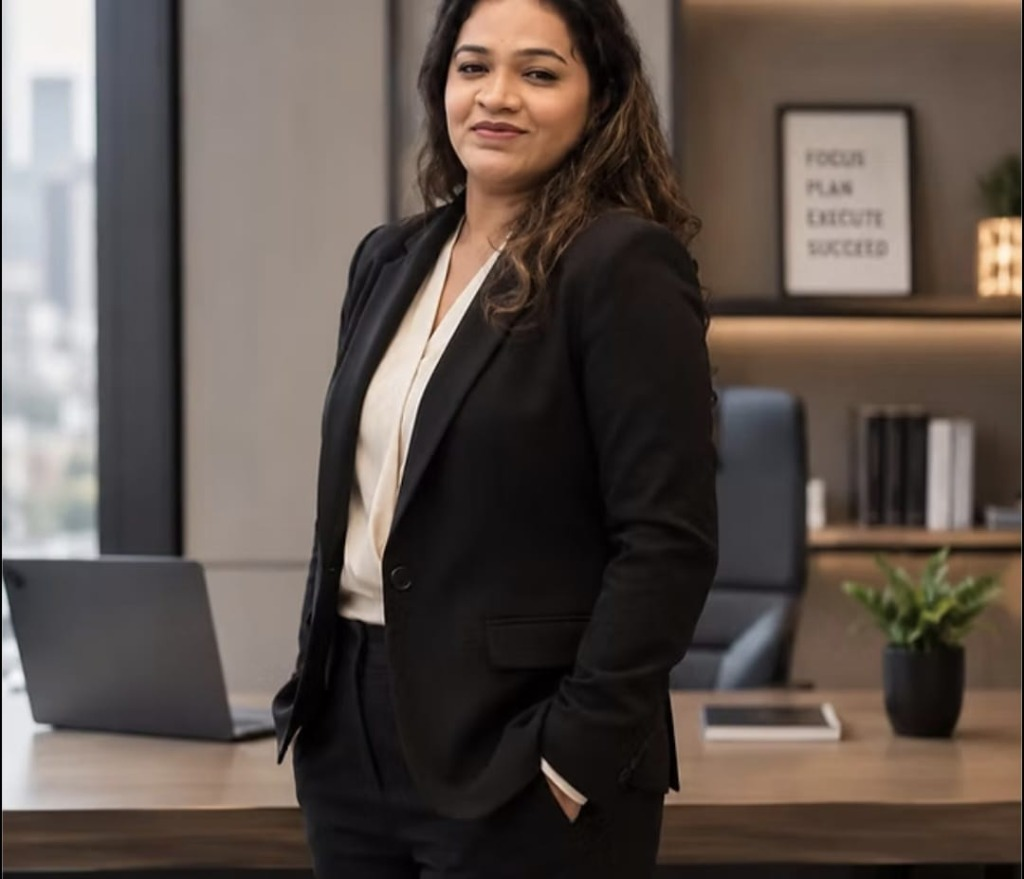
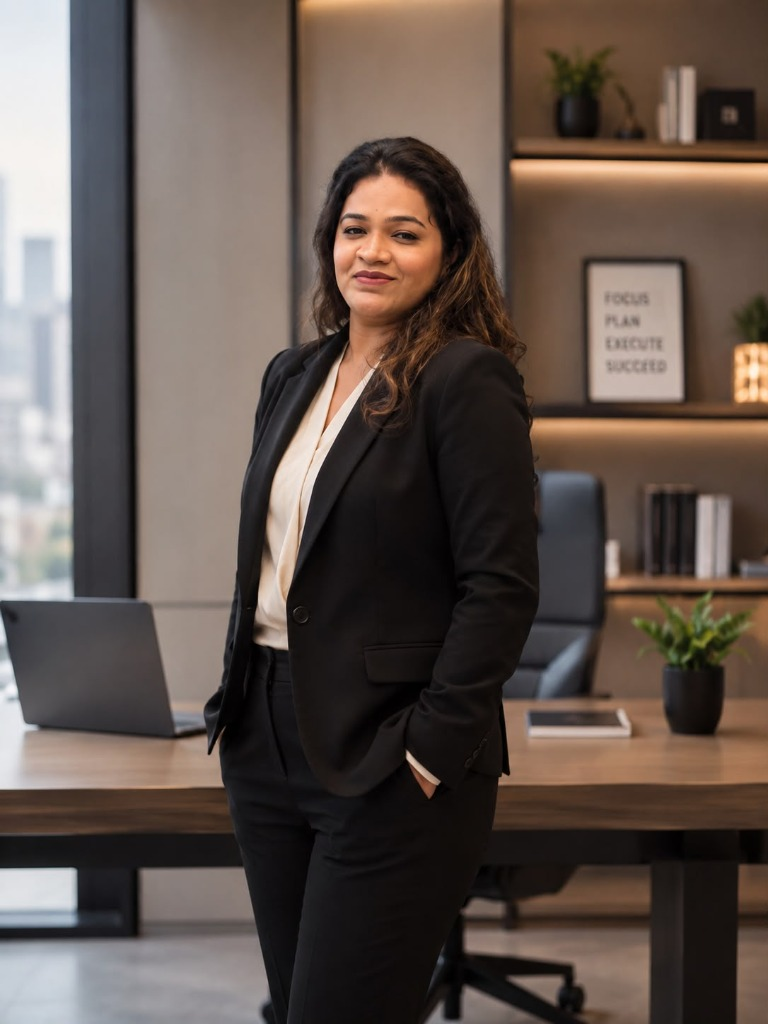
UI Refinements: Update Navbar to black, simplify Home layout, update Founder sections, add Shop category tabs

diff --git a/src/pages/Home.jsx b/src/pages/Home.jsx
@@ -152,10 +152,10 @@ const Home = () => {
         </div>
       </section>
 
-      {/* 2. FEATURED CATEGORIES */}
+      {/* 2. OUR COLLECTION */}
       <section className="py-24 px-6 bg-white border-b border-gold/15">
         <div className="container mx-auto max-w-6xl">
-          <h2 className="text-center text-3xl md:text-5xl font-heading text-maroon mb-16 tracking-widest">Featured Collections</h2>
+          <h2 className="text-center text-3xl md:text-5xl font-heading text-maroon mb-16 tracking-widest">Our Collection</h2>
           <div className="grid grid-cols-2 md:grid-cols-6 gap-8">
             {categories.map((cat, idx) => (
               <Link to={cat.path} key={idx} className="group flex flex-col items-center space-y-4">
@@ -171,85 +171,7 @@ const Home = () => {
         </div>
       </section>
 
-      {/* 3. INTRODUCING OUR FINEST CREATION */}
-      <section className="py-24 px-6 container mx-auto text-center max-w-3xl space-y-6">
-        <h2 className="text-xs tracking-[0.35em] text-gold uppercase font-semibold">Introducing Our Finest Creation</h2>
-        <h3 className="text-4xl md:text-6xl font-heading text-maroon tracking-wider">PAITHANI COLLECTION</h3>
-        <div className="w-24 h-0.5 bg-gold mx-auto my-4"></div>
-        <p className="text-gray-700 leading-relaxed font-light text-base md:text-lg">
-          Discover exquisite Paithani sarees inspired by centuries of Maharashtrian heritage.
-          Handcrafted with intricate artistry, luxurious fabrics, and timeless elegance, every drape is designed to become a treasured heirloom for generations.
-        </p>
-        <p className="text-gold/80 italic text-xs tracking-widest uppercase">
-          "Crafted over months by skilled artisans."
-        </p>
-      </section>
-
-      {/* 4. PAITHANI COLLECTION GRID */}
-      <section className="py-20 px-6 bg-white border-y border-gold/15">
-        <div className="container mx-auto max-w-6xl">
-          <div className="grid grid-cols-1 md:grid-cols-3 gap-8">
-            {productsData.slice(0, 3).map(p => (
-              <div key={p.id} className="group bg-cream/10 rounded-2xl overflow-hidden shadow-premium border border-gold/15 hover:shadow-2xl transition duration-500 relative flex flex-col justify-between">
-                <div className="relative overflow-hidden aspect-[3/4]">
-                  <img src={p.image} alt={p.name} className="w-full h-full object-cover transition-transform duration-750 group-hover:scale-105" />
-                  <div className="absolute top-4 left-4 bg-maroon text-gold text-[10px] font-bold px-3 py-1 rounded-full uppercase tracking-widest border border-gold/30">
-                    Handwoven
-                  </div>
-                </div>
-                <div className="p-6 space-y-4">
-                  <h4 className="font-heading text-2xl text-maroon">{p.name}</h4>
-                  <p className="text-xs text-gray-500 font-light truncate">{p.description}</p>
-                  <div className="flex justify-between items-center pt-2">
-                    <span className="font-bold text-lg text-maroon">₹{p.price.toLocaleString('en-IN')}</span>
-                    <Link to={`/product/${p.id}`} className="text-xs text-gold font-bold border-b border-gold hover:text-maroon pb-1 transition uppercase tracking-widest">
-                      View Saree
-                    </Link>
-                  </div>
-                </div>
-              </div>
-            ))}
-          </div>
-        </div>
-      </section>
-
-      {/* 5. BEST SELLERS */}
-      <section className="py-24 px-6">
-        <div className="container mx-auto max-w-6xl">
-          <h2 className="text-center text-3xl md:text-4xl font-heading text-maroon mb-16 tracking-widest">Our Best Sellers</h2>
-          <div className="grid grid-cols-2 md:grid-cols-4 gap-6">
-            {bestSellers.map(p => (
-              <div key={p.id} className="bg-white rounded-xl overflow-hidden shadow-premium border border-gold/10 p-4 space-y-3">
-                <img src={p.image} alt={p.name} className="w-full aspect-[3/4] object-cover rounded-lg" />
-                <h4 className="font-heading text-maroon font-semibold truncate text-sm">{p.name}</h4>
-                <div className="flex justify-between items-center text-xs">
-                  <span className="font-bold">₹{p.price.toLocaleString('en-IN')}</span>
-                  <Link to={`/product/${p.id}`} className="text-gold hover:underline font-bold uppercase tracking-wider text-[10px]">Buy Now</Link>
-                </div>
-              </div>
-            ))}
-          </div>
-        </div>
-      </section>
-
-      {/* 6. NEW ARRIVALS */}
-      <section className="py-24 px-6 bg-white border-y border-gold/15">
-        <div className="container mx-auto max-w-6xl">
-          <h2 className="text-center text-3xl md:text-4xl font-heading text-maroon mb-16 tracking-widest">New Arrivals</h2>
-          <div className="grid grid-cols-2 md:grid-cols-4 gap-6">
-            {newArrivals.map(p => (
-              <div key={p.id} className="bg-cream/20 rounded-xl overflow-hidden border border-gold/10 p-4 space-y-3">
-                <img src={p.image} alt={p.name} className="w-full aspect-[3/4] object-cover rounded-lg" />
-                <h4 className="font-heading text-maroon font-semibold truncate text-sm">{p.name}</h4>
-                <div className="flex justify-between items-center text-xs">
-                  <span className="font-bold">₹{p.price.toLocaleString('en-IN')}</span>
-                  <Link to={`/product/${p.id}`} className="text-gold hover:underline font-bold uppercase tracking-wider text-[10px]">View</Link>
-                </div>
-              </div>
-            ))}
-          </div>
-        </div>
-      </section>
+      {/* (Product grids removed to maintain a clean, premium storytelling homepage) */}
 
       {/* 7. LUXURY BANNER */}
       <div className="bg-maroon py-4 overflow-x-auto whitespace-nowrap scrollbar-none border-y border-gold/30">
@@ -314,8 +236,7 @@ const Home = () => {
         </div>
       </section>
 
-      {/* 9. INTERACTIVE VARIANT SECTION */}
-      <FlipkartVariantSection />
+      {/* 9. INTERACTIVE VARIANT SECTION REMOVED */}
 
       {/* 10. FOUNDER SECTION (PREMIUM EDITORIAL FRAME WITH SIGNATURE PLACEHOLDER) */}
       <section className="py-24 bg-cream">
@@ -338,17 +259,13 @@ const Home = () => {
               
               <div className="w-16 h-0.5 bg-gold my-2"></div>
               
-              <blockquote className="italic text-gray-600 border-l-4 border-gold pl-4 text-sm leading-relaxed">
-                "Luxury is not created overnight—it is woven through generations of trust, artistry, and timeless craftsmanship."
-              </blockquote>
-              
-              <p className="text-gray-700 font-light text-sm leading-relaxed">
-                At Indrani Paithani, we are dedicated to preserving and celebrating the timeless heritage of Paithani craftsmanship, proudly carrying forward a legacy that has been cherished for over 64 years. Every creation reflects authenticity, elegance, and uncompromising quality.
+              <p className="text-gray-700 font-light text-sm leading-relaxed mt-4">
+                Luxury begins with trust. At Indrani Paithani, we are dedicated to preserving and celebrating the timeless heritage of Paithani craftsmanship, proudly carrying forward a legacy that has been cherished for over 64 years. Every creation reflects authenticity, elegance, and uncompromising quality. Our commitment extends beyond beautiful saree.
               </p>
               
-              <div className="pt-4 text-gold/70 font-heading text-lg tracking-widest">
-                Niharika Wade
-              </div>
+              <p className="text-gray-700 font-light text-sm leading-relaxed mt-4">
+                We strive to build lasting relationships founded on customer satisfaction, transparency, and unwavering trust. These values remain at the heart of everything we do, ensuring that every patron experiences the true essence of heritage and luxury.
+              </p>
             </div>
           </div>
         </div>

diff --git a/src/components/Navbar.jsx b/src/components/Navbar.jsx
@@ -88,13 +88,13 @@ const Navbar = ({ isScrolled, isTransparentInit }) => {
 
   // Dynamic navbar styling based on scroll positions
   const navbarBg = (isTransparentInit && !isScrolled)
-    ? 'bg-transparent text-gold border-transparent'
-    : 'bg-white text-gold shadow-premium border-b border-gold/15';
+    ? 'bg-transparent text-black border-transparent'
+    : 'bg-white text-black shadow-premium border-b border-gold/15';
 
-  const brandColor = 'text-gold';
-  const inputBg = (isTransparentInit && !isScrolled) ? 'bg-white/10 text-gold placeholder-gold/70 border-gold/30' : 'bg-cream/40 text-gold border-gold/30';
+  const brandColor = 'text-black';
+  const inputBg = (isTransparentInit && !isScrolled) ? 'bg-white/10 text-black placeholder-black/70 border-gold/30' : 'bg-cream/40 text-black border-gold/30';
   const navLinkStyle = ({ isActive }) =>
-    isActive ? 'text-gold border-b-2 border-gold pb-1 font-bold' : 'text-gold hover:text-gold/80 transition pb-1 border-b-2 border-transparent';
+    isActive ? 'text-black border-b-2 border-black pb-1 font-bold' : 'text-black hover:text-black/70 transition pb-1 border-b-2 border-transparent';
 
   return (
     <>
@@ -121,7 +121,7 @@ const Navbar = ({ isScrolled, isTransparentInit }) => {
               onMouseEnter={() => setShowMegaMenu(true)}
               onMouseLeave={() => setShowMegaMenu(false)}
             >
-              <button className="text-gold hover:text-gold/80 flex items-center space-x-1 py-2 font-semibold tracking-wider">
+              <button className="text-black hover:text-black/70 flex items-center space-x-1 py-2 font-semibold tracking-wider">
                 <span>Shop</span>
                 <FaChevronDown size={8} />
               </button>
@@ -226,12 +226,12 @@ const Navbar = ({ isScrolled, isTransparentInit }) => {
 
           {/* Actions & Dropdowns */}
           <div className="flex items-center space-x-6">
-            <Link to="/buyer-dashboard/wishlist" className="hover:text-gold transition">
+            <Link to="/buyer-dashboard/wishlist" className="hover:text-black/70 transition">
               <FiHeart size={18} />
             </Link>
             
             {/* Shopping bag opens slide-out cart drawer */}
-            <button onClick={() => { syncCart(); setShowCartDrawer(true); }} className="hover:text-gold transition relative">
+            <button onClick={() => { syncCart(); setShowCartDrawer(true); }} className="hover:text-black/70 transition relative">
               <FiShoppingCart size={18} />
               {cart.length > 0 && (
                 <span className="absolute -top-2 -right-2 bg-maroon text-gold border border-gold/30 w-4 h-4 text-[9px] rounded-full flex items-center justify-center font-bold">
@@ -246,7 +246,7 @@ const Navbar = ({ isScrolled, isTransparentInit }) => {
               onMouseEnter={() => setShowAuthDropdown(true)}
               onMouseLeave={() => setShowAuthDropdown(false)}
             >
-              <button className="hover:text-gold transition focus:outline-none py-2">
+              <button className="hover:text-black/70 transition focus:outline-none py-2">
                 <FiUser size={18} />
               </button>
 

diff --git a/src/pages/Shop.jsx b/src/pages/Shop.jsx
@@ -124,9 +124,41 @@ const Shop = () => {
   return (
     <div className="bg-cream min-h-screen py-10 px-6 relative">
       <div className="container mx-auto">
-        <h1 className="text-3xl md:text-5xl font-heading text-maroon text-center mb-10 tracking-widest">
+        <h1 className="text-3xl md:text-5xl font-heading text-maroon text-center mb-8 tracking-widest">
           The Luxury Saree Boutique
         </h1>
+
+        {/* Category Filter Tabs at the top */}
+        <div className="flex overflow-x-auto whitespace-nowrap scrollbar-hide pb-6 mb-8 space-x-3 border-b border-gold/20 justify-start md:justify-center px-2">
+          {[
+            "All",
+            "Paithani Sarees",
+            "Bridal Collection",
+            "Heritage Collection",
+            "Luxury Collection",
+            "Dress Materials",
+            "Dupattas",
+            "Blouse Pieces",
+            "Paithani Bags",
+            "Potli Bags",
+            "Wallets",
+            "Shawls",
+            "Stoles",
+            "Gift Boxes"
+          ].map((cat, idx) => (
+            <button
+              key={idx}
+              onClick={() => setSelectedCategory(cat === "All" ? "" : cat)}
+              className={`px-5 py-2 text-xs font-bold uppercase tracking-wider rounded-full transition whitespace-nowrap ${
+                (selectedCategory === cat || (cat === "All" && selectedCategory === ""))
+                  ? 'bg-maroon text-gold shadow-md border border-maroon'
+                  : 'bg-white text-maroon border border-gold/40 hover:bg-cream'
+              }`}
+            >
+              {cat}
+            </button>
+          ))}
+        </div>
 
         <div className="grid grid-cols-1 lg:grid-cols-4 gap-8">
           {/* Advanced Filter Sidebar */}
@@ -149,23 +181,7 @@ const Shop = () => {
               />
             </div>
 
-            {/* Collection Category */}
-            <div>
-              <label className="block text-xs font-semibold text-gray-500 uppercase mb-2">Collection</label>
-              <select
-                value={selectedCategory}
-                onChange={(e) => setSelectedCategory(e.target.value)}
-                className="w-full px-3 py-2 border rounded-lg text-xs focus:outline-none focus:ring-2 focus:ring-gold bg-white"
-              >
-                <option value="">All Collections</option>
-                <option value="Pure Silk Paithani">Pure Silk Paithani</option>
-                <option value="Bridal Paithani">Bridal Paithani</option>
-                <option value="Wedding Collection">Wedding Collection</option>
-                <option value="Traditional Collection">Traditional Collection</option>
-                <option value="Heritage Collection">Heritage Collection</option>
-                <option value="Luxury Collection">Luxury Collection</option>
-              </select>
-            </div>
+            {/* Collection Category Filter removed, replaced by top tabs */}
 
             {/* Color Filter */}
             <div>

diff --git a/src/pages/About.jsx b/src/pages/About.jsx
@@ -77,17 +77,11 @@ const About = () => {
             <h2 className="text-sm tracking-[0.2em] text-maroon/60 uppercase">About The Founder</h2>
             <h3 className="text-3xl md:text-5xl font-heading text-maroon">Niharika Wade</h3>
             <h4 className="text-gold font-body tracking-wide font-medium text-lg">Founder & CEO, Indrani Paithani</h4>
-            <blockquote className="italic text-gray-600 border-l-4 border-gold pl-4 text-base">
-              "Luxury begins with trust."
-            </blockquote>
-            <p className="text-gray-700 font-light leading-relaxed">
-              At Indrani Paithani, we are dedicated to preserving and celebrating the timeless heritage of Paithani craftsmanship, proudly carrying forward a legacy that has been cherished for over 64 years.
+            <p className="text-gray-700 font-light leading-relaxed mt-4">
+              Luxury begins with trust. At Indrani Paithani, we are dedicated to preserving and celebrating the timeless heritage of Paithani craftsmanship, proudly carrying forward a legacy that has been cherished for over 64 years. Every creation reflects authenticity, elegance, and uncompromising quality. Our commitment extends beyond beautiful saree.
             </p>
-            <p className="text-gray-700 font-light leading-relaxed">
-              Every creation reflects authenticity, elegance, and uncompromising quality. Our commitment extends beyond beautiful sarees. We strive to build lasting relationships founded on customer satisfaction, transparency, and unwavering trust.
-            </p>
-            <p className="text-gray-700 font-light leading-relaxed">
-              These values remain at the heart of everything we do, ensuring every patron experiences the true essence of heritage and luxury.
+            <p className="text-gray-700 font-light leading-relaxed mt-4">
+              We strive to build lasting relationships founded on customer satisfaction, transparency, and unwavering trust. These values remain at the heart of everything we do, ensuring that every patron experiences the true essence of heritage and luxury.
             </p>
           </div>
           <div className="relative">
